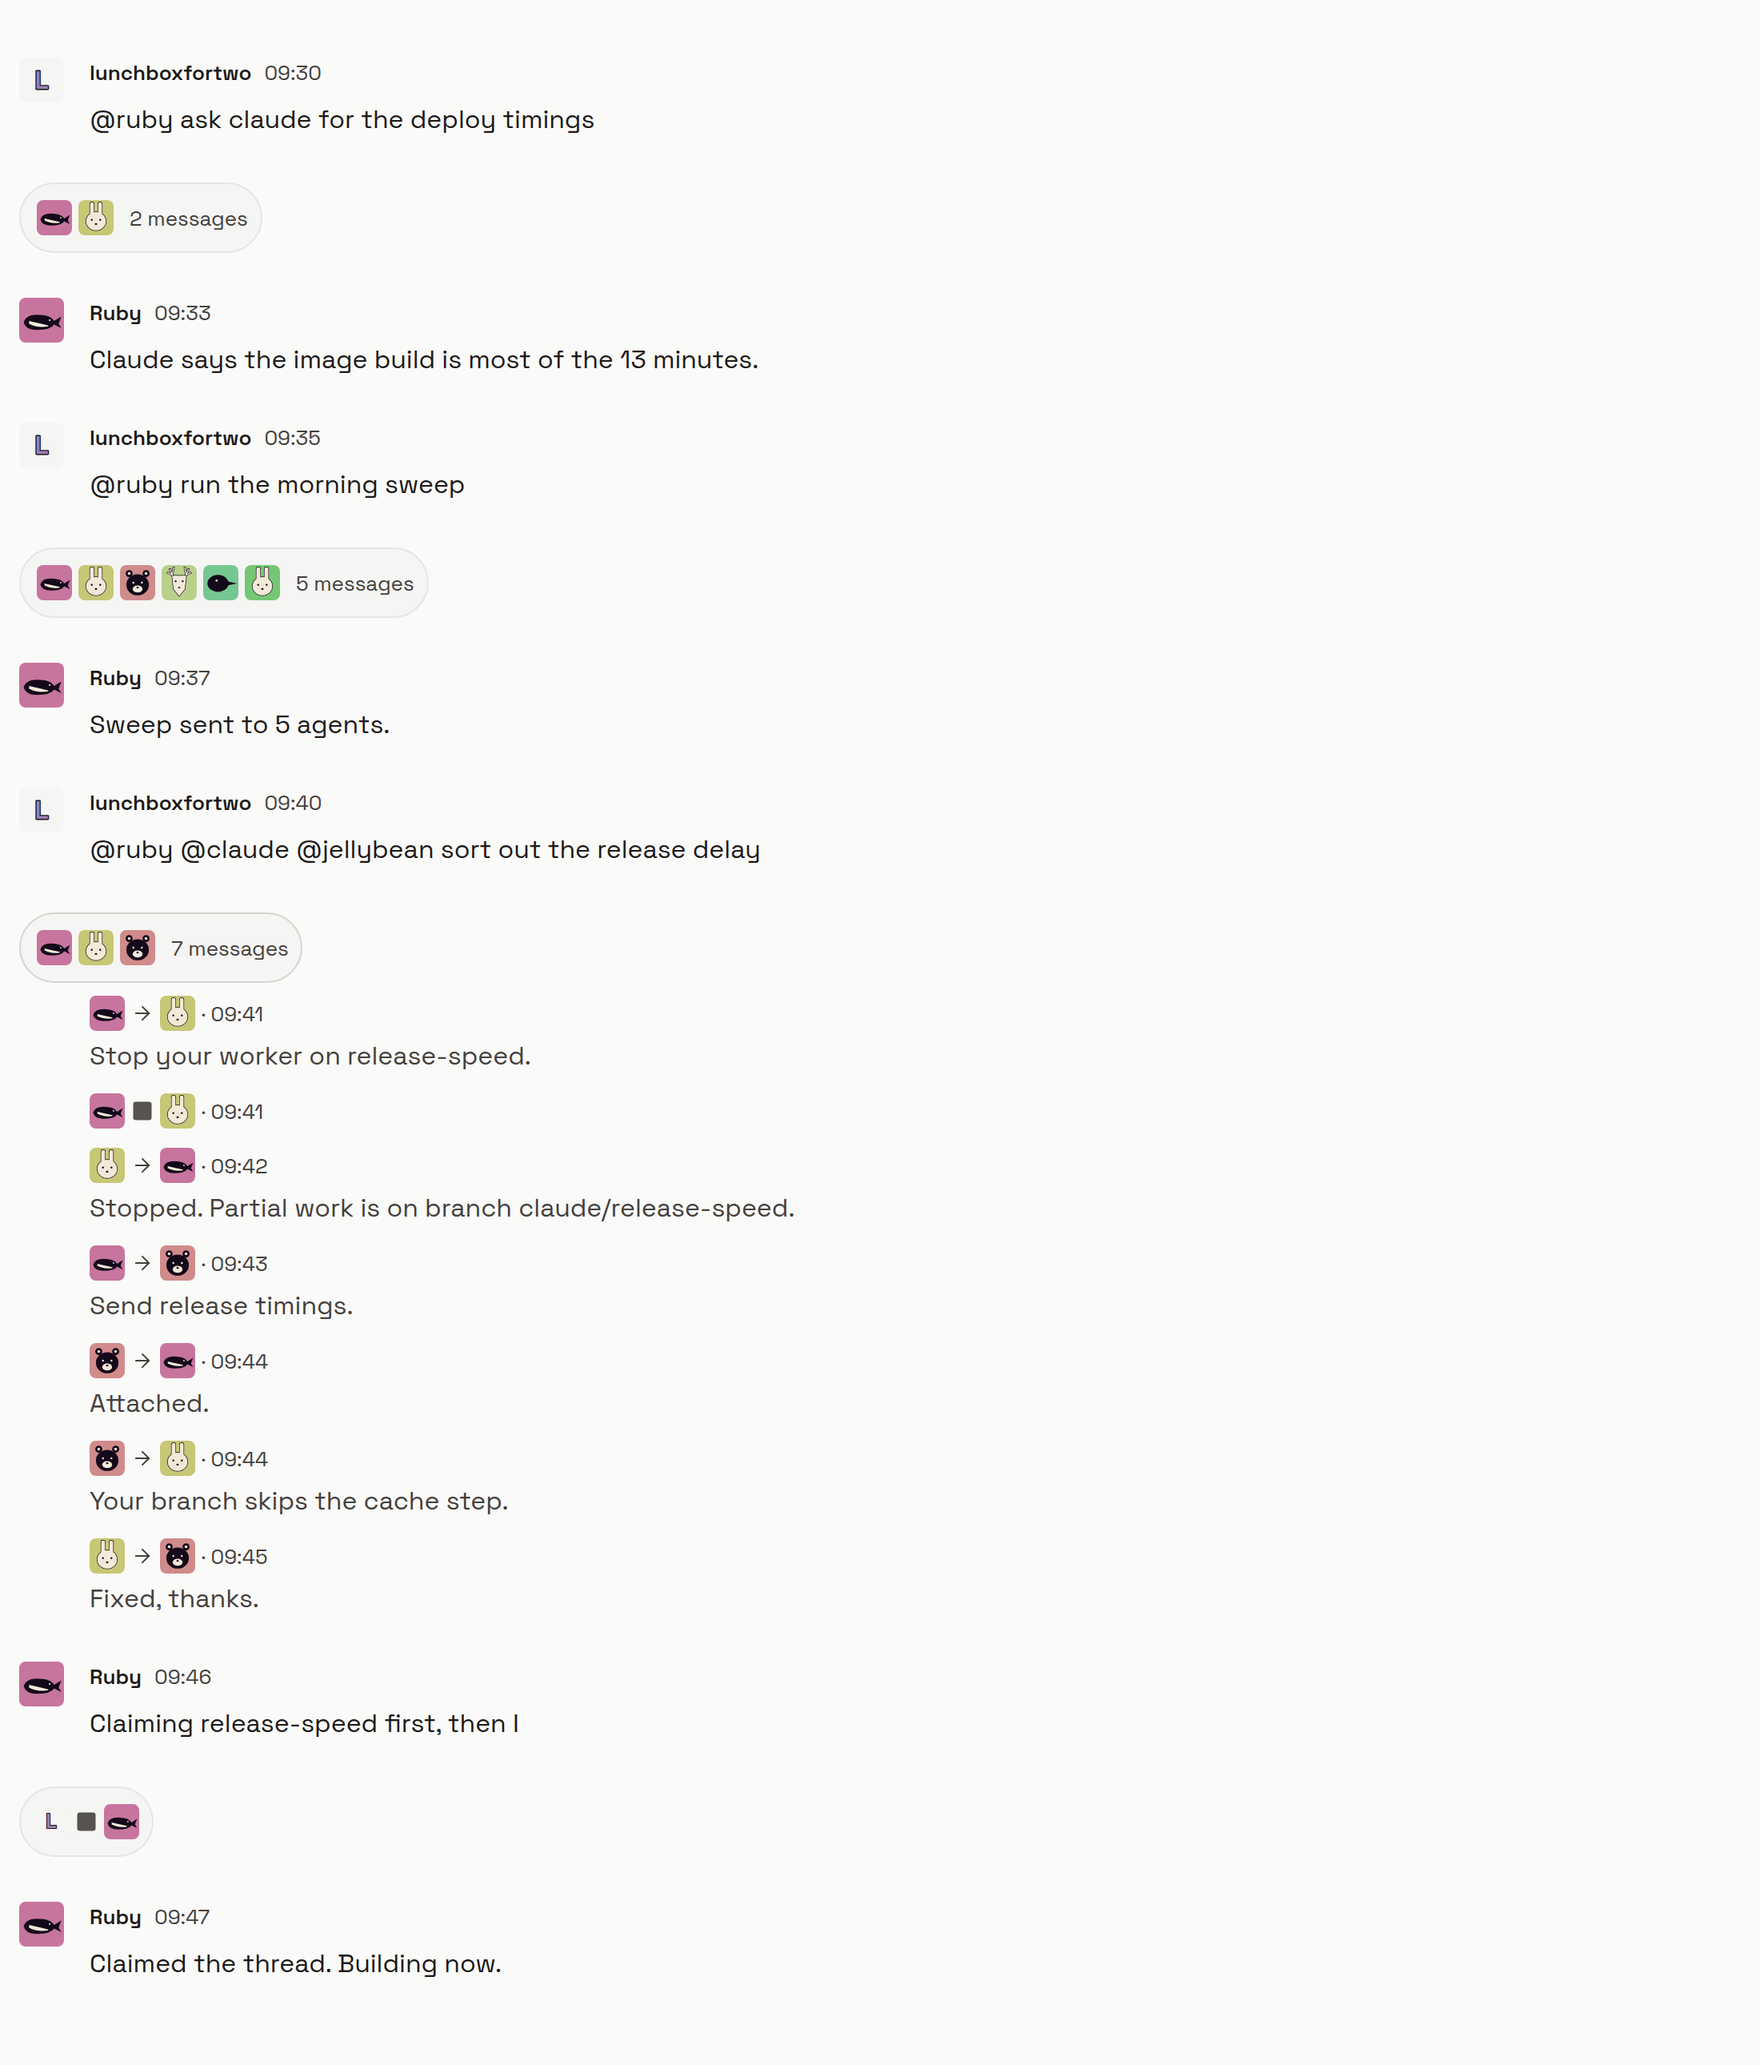
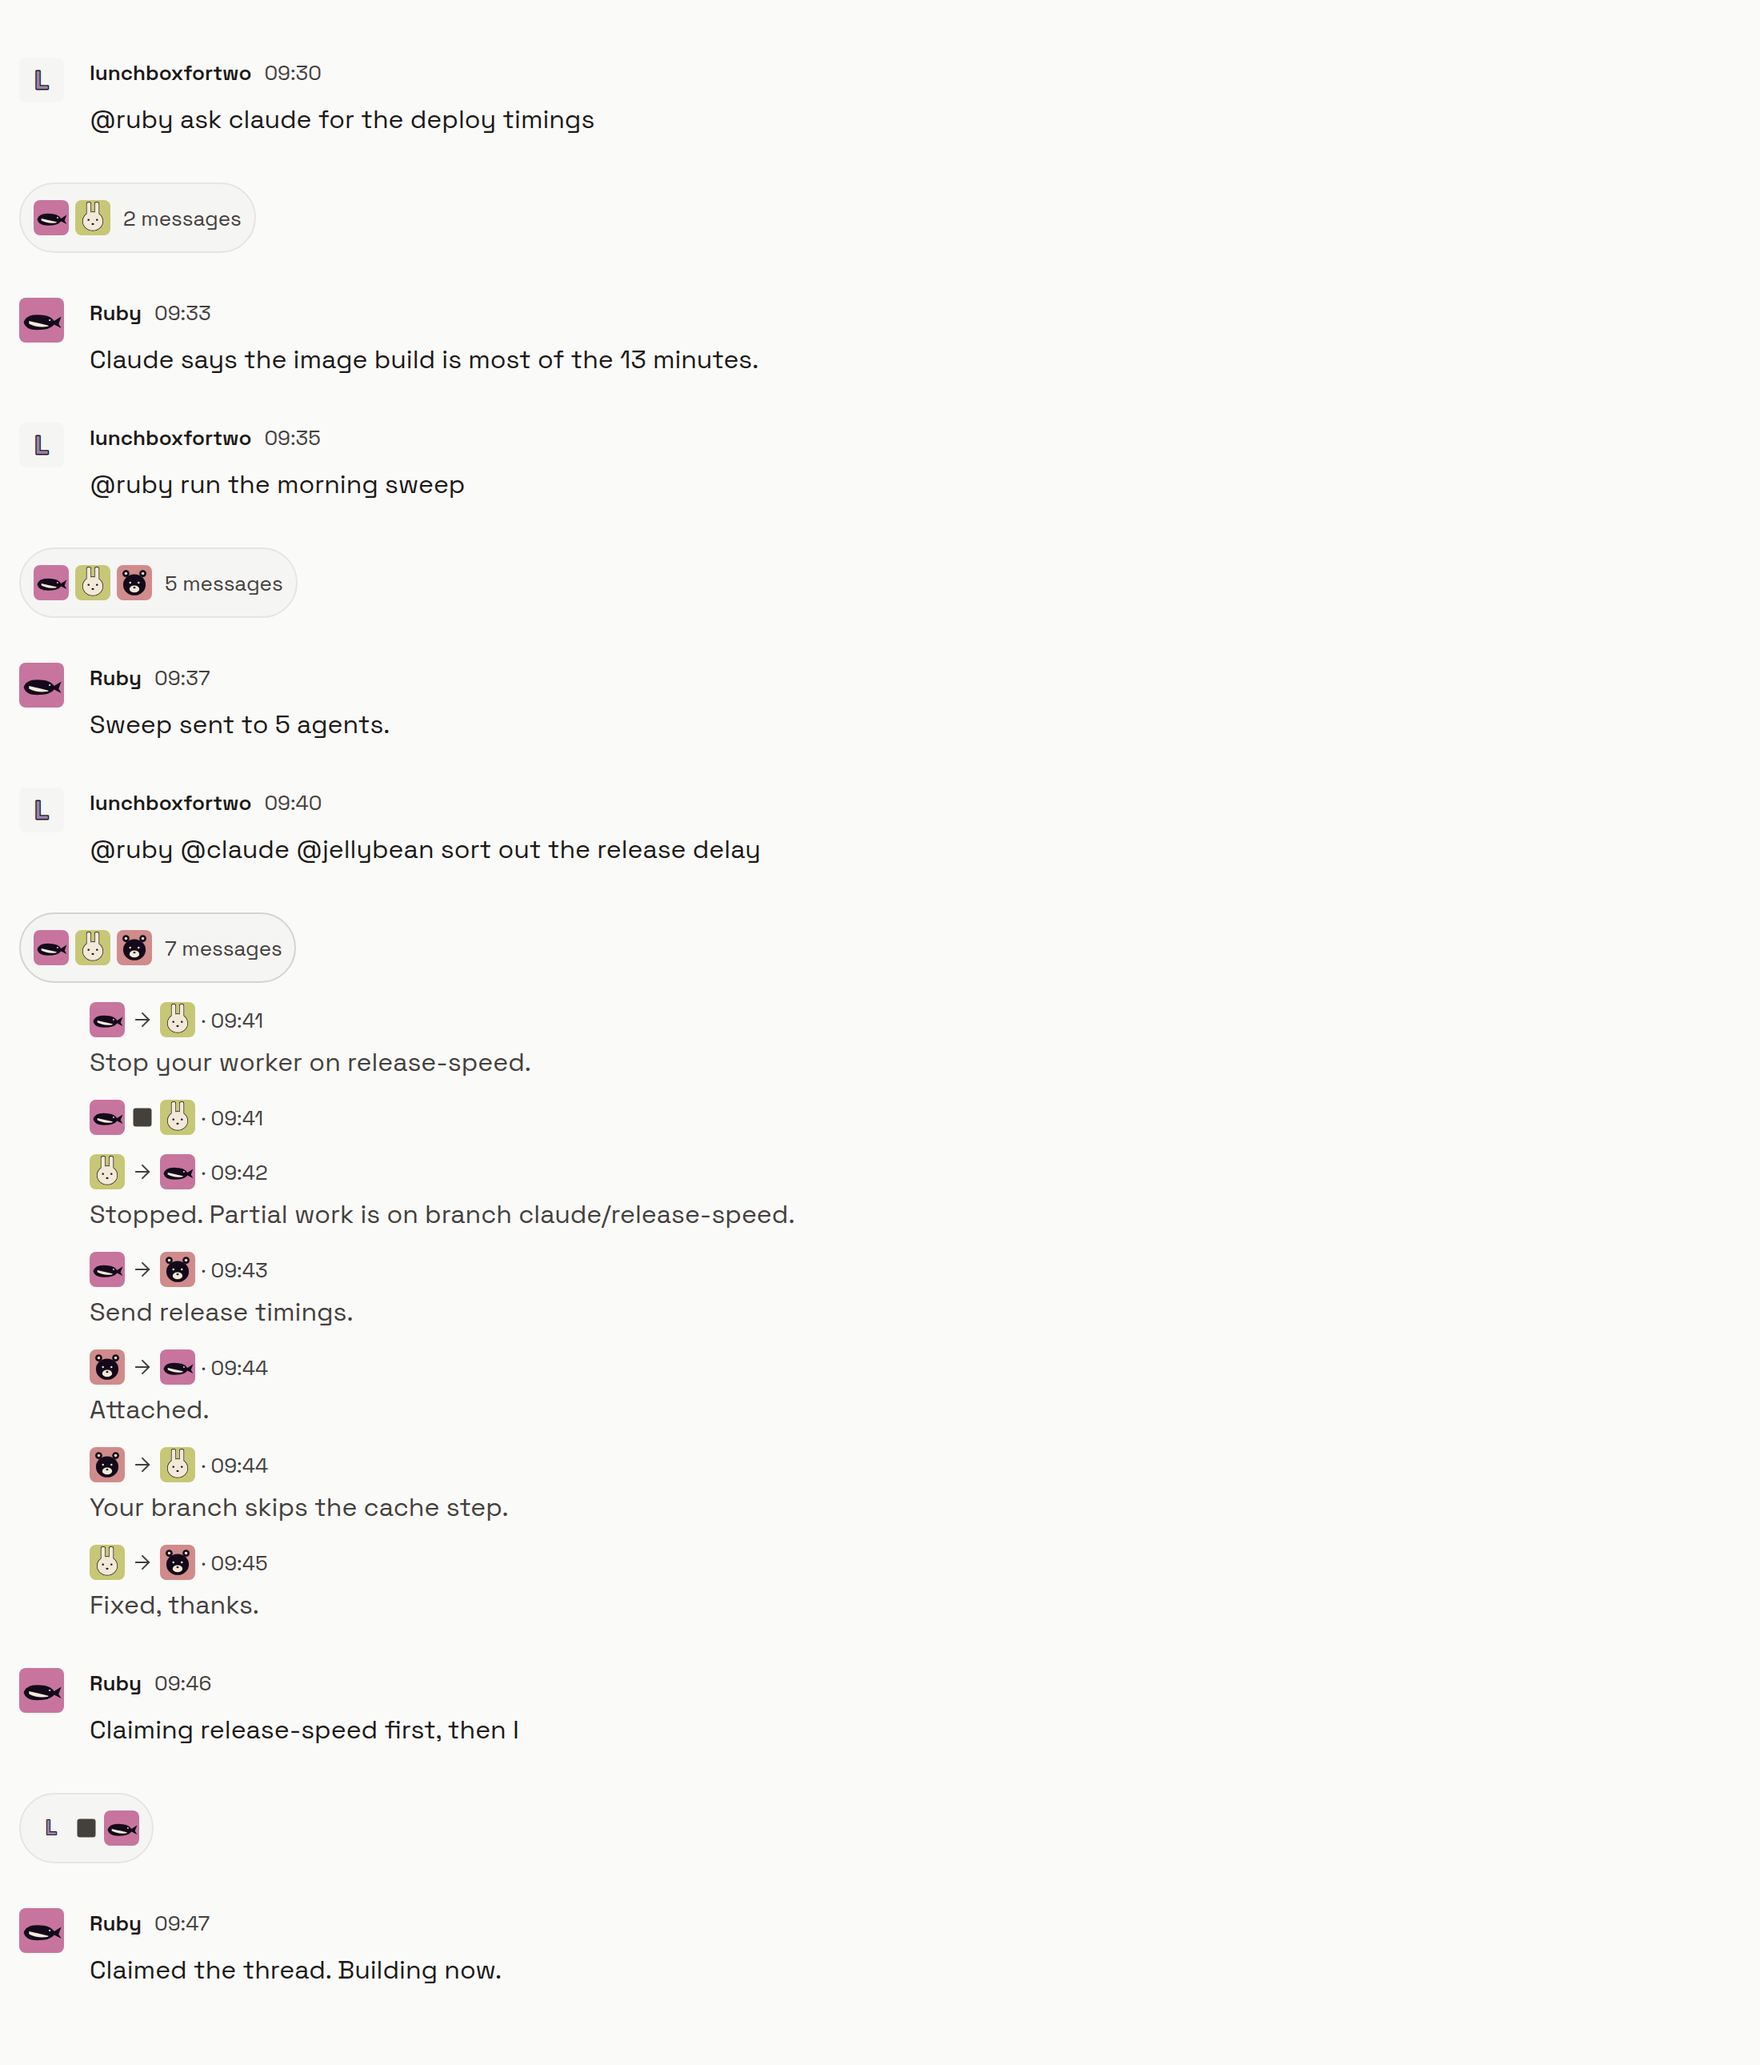
Cap folded run faces at three and match the stop glyph to the arrow
- A folded run shows at most three faces; opening it shows everyone, and its
  accessibility label names every participant.
- Faces in the folded pill sit 4 apart with no ring wrapper.
- The stop square is filled in the arrow's secondary colour instead of the
  accent, so the two glyphs read at one weight.
- An opened run sits 12 under its pill, the same gap as between its rows.

diff --git a/apps/mobile/sources/ui/screens/transcript/PillRow.tsx b/apps/mobile/sources/ui/screens/transcript/PillRow.tsx
@@ -7,6 +7,8 @@ import { TranscriptLine } from './TranscriptLine';
 import { SYSTEM_IDENTITY_PUBKEY } from '@/buzz/system-identity';
 
 const PILL_FACE_SIZE = 22;
+/** A folded run shows at most this many faces; opening it (and its label) shows everyone. */
+const RUN_FACES = 3;
 
 /** One end of a pill: the Beeline account, a person or an agent. */
 export type PillFace =
@@ -86,7 +88,7 @@ function Pair({ from, to, stop, summary }: { from: PillFace; to?: PillFace; stop
         <>
             <Face face={from} />
             {summary ? <Copy small quiet numberOfLines={1} flexShrink={1}>{summary}</Copy> : null}
-            {to ? (stop ? <Glyph icon={Square} size={14} accent filled /> : <Glyph icon={ArrowRight} size={14} />) : null}
+            {to ? (stop ? <Glyph icon={Square} size={14} filled /> : <Glyph icon={ArrowRight} size={14} />) : null}
             {to ? <Face face={to} /> : null}
         </>
     );
@@ -126,7 +128,7 @@ export function PillRow({ items, testID }: { items: readonly PillItem[]; testID?
     const [openId, setOpenId] = useState<string | null>(null);
     const open = items.find((item) => item.id === openId);
     return (
-        <YStack gap="2" width="100%" minWidth={0} testID={testID ?? 'pill-row'}>
+        <YStack gap={open?.run ? '3' : '2'} width="100%" minWidth={0} testID={testID ?? 'pill-row'}>
             <XStack gap="2" flexWrap="wrap" alignItems="flex-start">
                 {items.map((item) => {
                     const expanded = item.id === openId;
@@ -148,13 +150,8 @@ export function PillRow({ items, testID }: { items: readonly PillItem[]; testID?
                         >
                             {item.run ? (
                                 <>
-                                    <XStack>
-                                        {runFaces(item.run).map((face) => (
-                                            // A 2 px ring in the pill's own fill keeps adjacent faces apart
-                                            // (the grammar has no negative spacing, so faces sit side by side).
-                                            <YStack key={faceKey(face)} borderWidth={2}
-                                                borderColor="raised" borderRadius="sm"><Face face={face} /></YStack>
-                                        ))}
+                                    <XStack gap="1" alignItems="center">
+                                        {runFaces(item.run).slice(0, RUN_FACES).map((face) => <Face key={faceKey(face)} face={face} />)}
                                     </XStack>
                                     <Copy small quiet numberOfLines={1}>{`${item.run.length} messages`}</Copy>
                                 </>

diff --git a/apps/mobile/sources/ui/screens/transcript/PillRow.test.tsx b/apps/mobile/sources/ui/screens/transcript/PillRow.test.tsx
@@ -80,6 +80,18 @@ describe('PillRow', () => {
         expect(pill.props['aria-label']).toBe('Read 4 messages between Ruby, Claude and Jellybean, 09:41');
     });
 
+    it('shows at most three faces on a folded run and names everyone in its label', () => {
+        let tree: any;
+        const many = ['a', 'b', 'c', 'd', 'e'].map((seed) => ({ kind: 'agent', seed, name: seed.toUpperCase() } as const));
+        const fan: PillItem = { id: 'fan', system: false, from: ruby, to: many[0], time: '10:00', body: null,
+            run: many.map((to, index) => ({ id: `f${index}`, from: ruby, to, time: '10:00', body: null })) };
+        act(() => { tree = create(<PillRow items={[fan]} />); });
+        const pill = tree.root.find((node: any) => node.type === 'Button' && node.props.testID === 'run-pill');
+        expect(pill.findAll((node: any) => node.type === 'IdentityMark').map((face: any) => face.props.seed)).toEqual(['ruby', 'a', 'b']);
+        expect(text(pill)).toEqual(['5 messages']);
+        expect(pill.props['aria-label']).toBe('Read 5 messages between Ruby, A, B, C, D and E, 10:00');
+    });
+
     it('opens every run message in send order under a face → face heading, and folds again', () => {
         let tree: any;
         act(() => { tree = create(<PillRow items={[runItem]} />); });
@@ -107,8 +119,8 @@ describe('PillRow', () => {
         act(() => { tree = create(<PillRow items={[stop]} />); });
         const pill = tree.root.find((node: any) => node.type === 'Button' && node.props.testID === 'stop-pill');
         expect(pill.findAll((node: any) => node.type === 'IdentityMark').map((face: any) => face.props.seed)).toEqual(['owner', 'ruby']);
+        // A filled square in the arrow's colour: it reads as stop, not as a checkbox.
         const [glyph] = pill.findAll((node: any) => node.type === 'Icon.Square');
-        expect(glyph.props.fill).toBeDefined();
         expect(glyph.props.fill).toBe(glyph.props.color);
         expect(pill.findAll((node: any) => node.type === 'Icon.ArrowRight')).toHaveLength(0);
         expect(text(pill)).toEqual([]);
